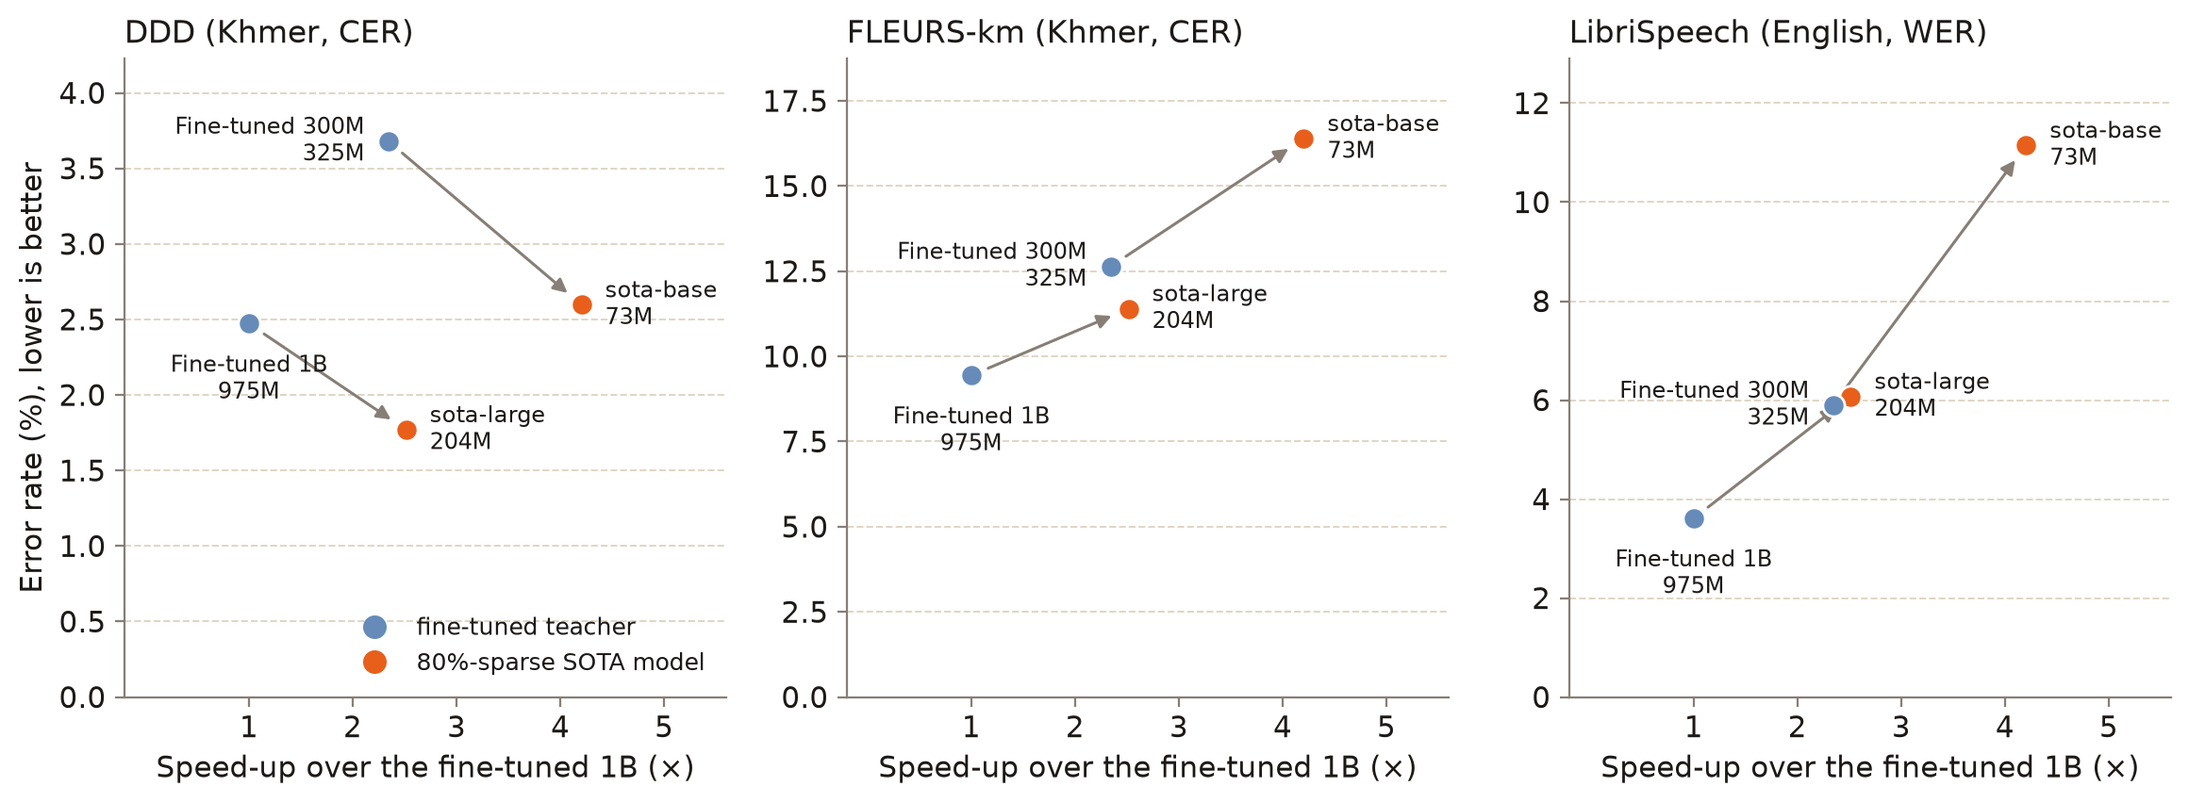
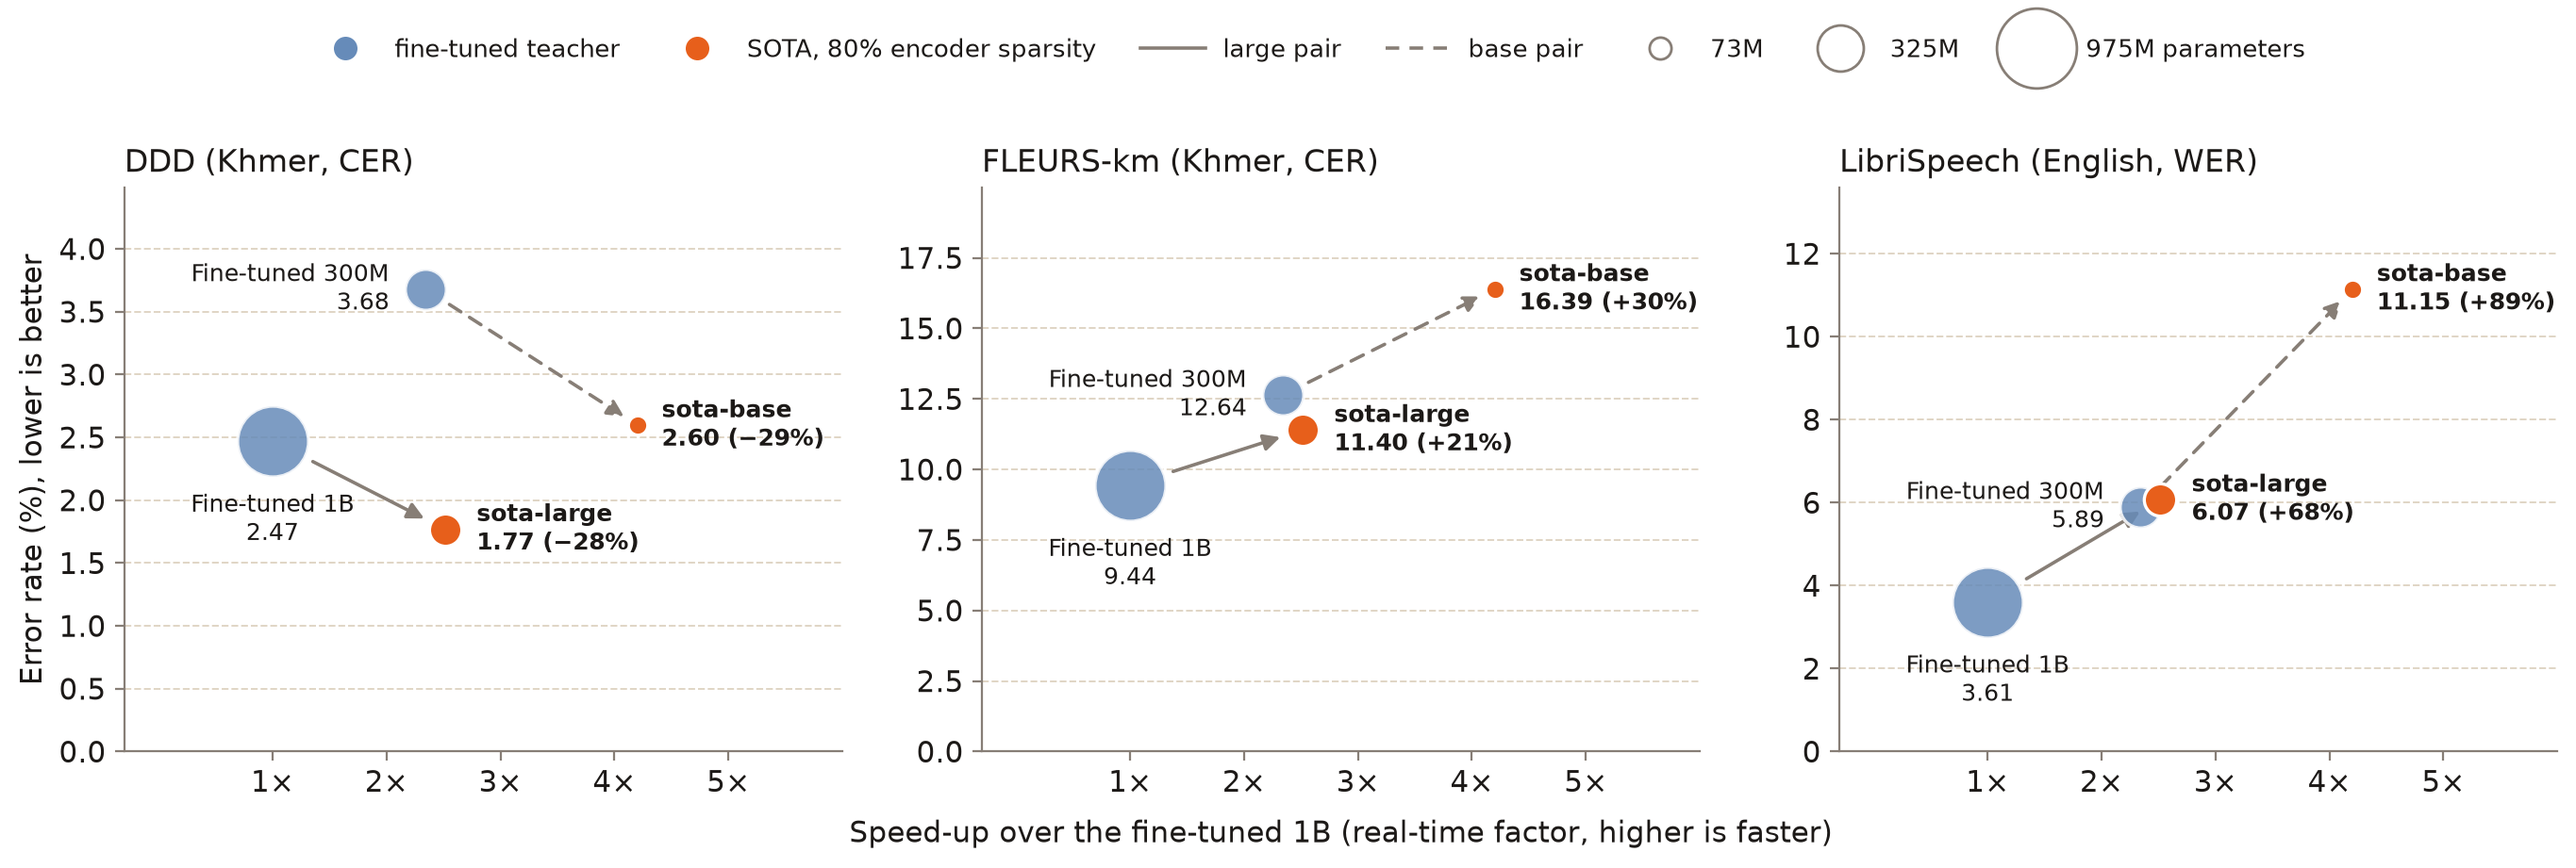
Figure 2: marker area = parameters, error change labels, shared legend
Claude-Session: https://claude.ai/code/session_01BZ25SH67HfP3pWf5gA1rxc

diff --git a/assets/make_figures.py b/assets/make_figures.py
@@ -186,35 +186,62 @@ def pruning() -> None:
 
 
 def tradeoff() -> None:
-    """Figure 2: speed against error for each teacher and its 80%-sparse model."""
-    pairs = [("large_teacher", "large", "Fine-tuned 1B"), ("base_teacher", "base", "Fine-tuned 300M")]
+    """Figure 2: speed against error for each teacher and its 80%-sparse model; marker area is parameters."""
+    ink, meta = COLOR["foreground"], COLOR["muted-2"]
+    pairs = [("large_teacher", "large", "Fine-tuned 1B", "sota-large", "-"),
+             ("base_teacher", "base", "Fine-tuned 300M", "sota-base", (0, (4, 3)))]
     ref = _mean_rtf("large_teacher")
-    fig, axes = plt.subplots(1, 3, figsize=(14, 4.4))
+
+    def area(params):
+        return params / 1e6 * 0.75
+
+    def radius(params):  # points
+        return (area(params) / np.pi) ** 0.5
+
+    fig, axes = plt.subplots(1, 3, figsize=(14, 4.5))
     for ax, (key, title) in zip(axes, TESTS):
         metric = "wer" if key.startswith("libri") else "cer"
-        for t_name, o_name, t_label in pairs:
-            pts = []
-            for name, label, color in ((t_name, t_label, BASELINES[0]), (o_name, f"sota-{o_name}", OURS)):
-                e = _eval(name)
-                pts.append((ref / _mean_rtf(name), 100 * e["results"][key][metric], label, e["params_total"] / 1e6, color))
-            (tx, ty, *_), (ox, oy, *_) = pts
-            ax.annotate("", (ox, oy), (tx, ty), zorder=3,
-                        arrowprops=dict(arrowstyle="-|>", color=COLOR["muted-2"], lw=1.1, shrinkA=7, shrinkB=7))
-            for i, (x, y, label, n, color) in enumerate(pts):
-                ax.scatter([x], [y], s=70, color=color, zorder=4, edgecolor="white", linewidth=1)
-                # the 1B below its point, the 300M to its left, SOTA models to the right
-                below = i == 0 and t_name == "large_teacher"
-                ax.annotate(f"{label}\n{n:.0f}M", (x, y), xytext=(0, -11) if below else (-9 if i == 0 else 9, 0),
-                            textcoords="offset points", ha="center" if below else ("right" if i == 0 else "left"),
-                            va="top" if below else "center", fontsize=8.5, color=COLOR["foreground"])
+        top = 0
+        for t_name, o_name, t_label, o_label, ls in pairs:
+            t, o = _eval(t_name), _eval(o_name)
+            tx, ox = ref / _mean_rtf(t_name), ref / _mean_rtf(o_name)
+            ty, oy = (100 * e["results"][key][metric] for e in (t, o))
+            tn, on = t["params_total"], o["params_total"]
+            top = max(top, ty, oy)
+            ax.annotate("", (ox, oy), (tx, ty), zorder=2,
+                        arrowprops=dict(arrowstyle="-|>", color=meta, lw=1.3, ls=ls, mutation_scale=13,
+                                        shrinkA=radius(tn) + 2, shrinkB=radius(on) + 2))
+            ax.scatter([tx], [ty], s=area(tn), color=BASELINES[0], alpha=0.85, zorder=3, edgecolor="white", lw=1.2)
+            ax.scatter([ox], [oy], s=area(on), color=OURS, zorder=4, edgecolor="white", lw=1.2)
+            # the 1B below its point, the 300M to its left, SOTA models to the right with their change
+            if t_name == "large_teacher":
+                ax.annotate(f"{t_label}\n{ty:.2f}", (tx, ty), xytext=(0, -radius(tn) - 4), textcoords="offset points",
+                            ha="center", va="top", fontsize=9, color=ink)
+            else:
+                ax.annotate(f"{t_label}\n{ty:.2f}", (tx, ty), xytext=(-radius(tn) - 5, 0), textcoords="offset points",
+                            ha="right", va="center", fontsize=9, color=ink)
+            change = 100 * (oy / ty - 1)
+            ax.annotate(f"{o_label}\n{oy:.2f} ({change:+.0f}%)".replace("(-", "(−"), (ox, oy),
+                        xytext=(radius(on) + 5, 0), textcoords="offset points", ha="left", va="center", fontsize=9,
+                        color=ink, weight="bold")
         ax.set_title(title.replace("\n", " "), loc="left", fontsize=12)
-        ax.set_xlabel("Speed-up over the fine-tuned 1B (×)")
-        ax.set_xlim(-0.2, 5.6)
-        ax.set_xticks(range(1, 6))
-        ax.set_ylim(0, ax.get_ylim()[1] * 1.12)
+        ax.set_xlim(-0.3, 6.0)
+        ax.set_xticks(range(1, 6), [f"{i}×" for i in range(1, 6)])
+        ax.set_ylim(0, top * 1.22)
     axes[0].set_ylabel("Error rate (%), lower is better")
-    axes[0].legend(handles=[legend_dot(BASELINES[0], "fine-tuned teacher"), legend_dot(OURS, "80%-sparse SOTA model")],
-                   loc="lower right", fontsize=9)
+    axes[1].set_xlabel("Speed-up over the fine-tuned 1B (real-time factor, higher is faster)", fontsize=11, labelpad=8)
+
+    def size_key(params, label):
+        return matplotlib.lines.Line2D([], [], marker="o", ls="None", markersize=2 * radius(params),
+                                       markerfacecolor="none", markeredgecolor=meta, label=label)
+
+    handles = [legend_dot(BASELINES[0], "fine-tuned teacher"), legend_dot(OURS, "SOTA, 80% encoder sparsity"),
+               matplotlib.lines.Line2D([], [], color=meta, lw=1.3, label="large pair"),
+               matplotlib.lines.Line2D([], [], color=meta, lw=1.3, ls=(0, (4, 3)), label="base pair"),
+               size_key(73e6, "73M"), size_key(325e6, "325M"), size_key(975e6, "975M parameters")]
+    fig.legend(handles=handles, loc="upper center", ncol=len(handles), fontsize=9.5, frameon=False,
+               bbox_to_anchor=(0.5, 1.03), handlelength=2.6, handletextpad=0.7, columnspacing=1.8, borderpad=0.8)
+    fig.tight_layout(rect=(0, 0, 1, 0.9))
     fig.savefig(HERE / "tradeoff.png")
     plt.close(fig)
 

diff --git a/README.md b/README.md
@@ -92,7 +92,7 @@ SOTA was trained on about **1,537 hours** of speech, mixed 50/50 between Khmer a
   <img src="assets/tradeoff.png" width="1000" alt="Error rate against speed-up for each fine-tuned teacher and its 80%-sparse SOTA model on DDD, FLEURS-km and LibriSpeech" />
 </p>
 
-<p><em>Figure 2: What 80% encoder sparsity buys and costs. Each arrow runs from a fine-tuned teacher to its pruned model; speed is relative to the fine-tuned 1B, measured as real-time factor on one machine. Pruning makes the models 4–5× smaller and 1.8–2.5× faster than their teachers. On DDD both pruned models are also more accurate; on FLEURS-km and LibriSpeech they lose accuracy. sota-large is about as fast as the fine-tuned 300M, and more accurate on both Khmer sets.</em></p>
+<p><em>Figure 2: What 80% encoder sparsity buys and costs. Each arrow runs from a fine-tuned teacher to its pruned model (solid: large, dashed: base); marker area is the parameter count, and each SOTA label gives its error and the change against its teacher. Speed is relative to the fine-tuned 1B, measured as real-time factor on one machine. Pruning makes the models 4–5× smaller and 1.8–2.5× faster than their teachers. On DDD both pruned models are also more accurate; on FLEURS-km and LibriSpeech they lose accuracy. sota-large is about as fast as the fine-tuned 300M, and more accurate on both Khmer sets.</em></p>
 
 | Feature | Detail |
 | :--- | :--- |

diff --git a/training/release/cards/sota-large.md b/training/release/cards/sota-large.md
@@ -38,7 +38,7 @@ Test sets; greedy CTC decoding, no language model. CER for Khmer, WER for Englis
 
 <p align="center"><img src="https://huggingface.co/Darayut/sota-large/resolve/main/assets/tradeoff.png" width="100%" alt="Error rate against speed-up for each fine-tuned teacher and its 80%-sparse model"></p>
 
-*Speed against error.* Each arrow runs from a fine-tuned teacher to its pruned model; speed is relative to the fine-tuned 1B (real-time factor).
+*Speed against error.* Each arrow runs from a fine-tuned teacher to its pruned model (solid: large, dashed: base). Marker area is the parameter count, and each label gives the error and its change against the teacher. Speed is relative to the fine-tuned 1B (real-time factor).
 
 ## Architecture
 

diff --git a/training/release/cards/sota-base.md b/training/release/cards/sota-base.md
@@ -38,7 +38,7 @@ Test sets; greedy CTC decoding, no language model. CER for Khmer, WER for Englis
 
 <p align="center"><img src="https://huggingface.co/Darayut/sota-base/resolve/main/assets/tradeoff.png" width="100%" alt="Error rate against speed-up for each fine-tuned teacher and its 80%-sparse model"></p>
 
-*Speed against error.* Each arrow runs from a fine-tuned teacher to its pruned model; speed is relative to the fine-tuned 1B (real-time factor).
+*Speed against error.* Each arrow runs from a fine-tuned teacher to its pruned model (solid: large, dashed: base). Marker area is the parameter count, and each label gives the error and its change against the teacher. Speed is relative to the fine-tuned 1B (real-time factor).
 
 ## Architecture
 
